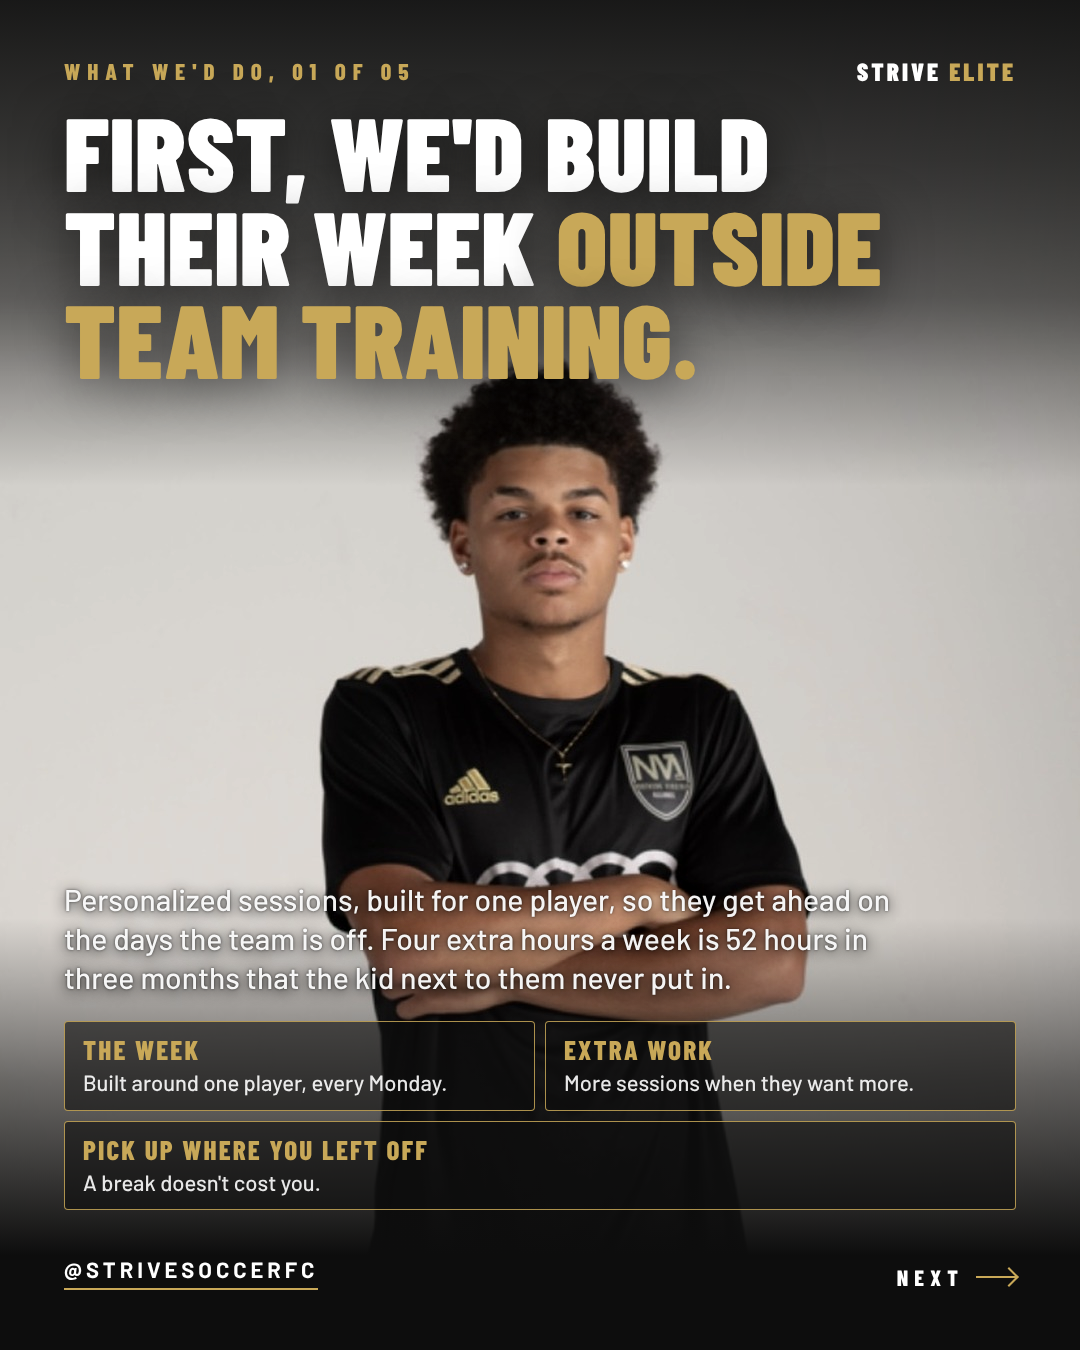
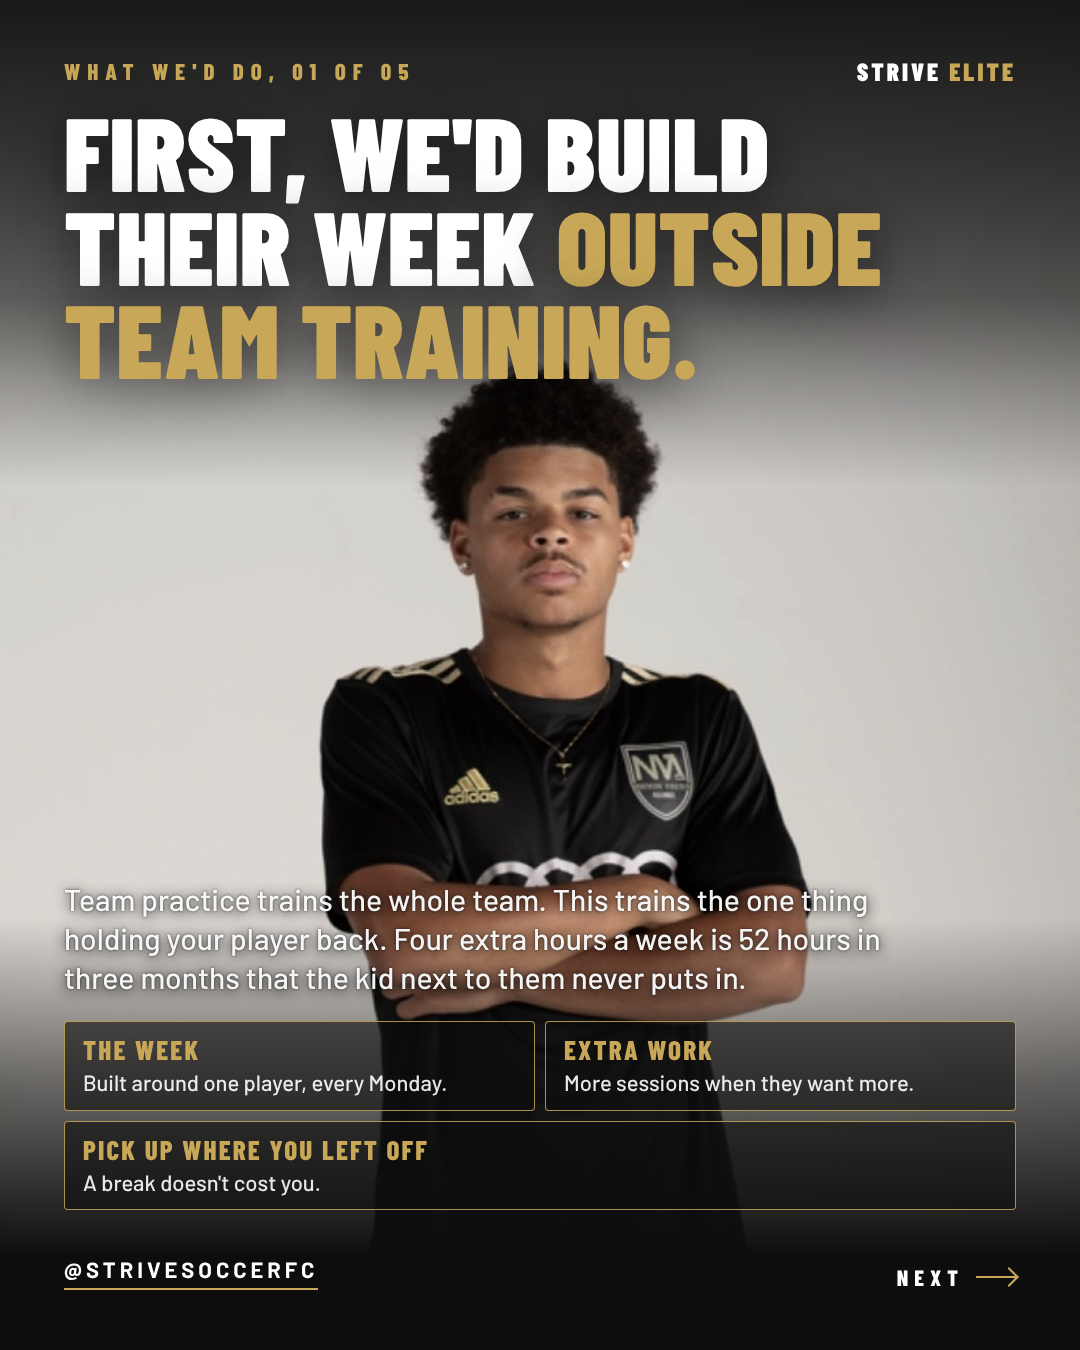
Offer carousel: step 1 sentence says what the player gets
Claude-Session: https://claude.ai/code/session_011JsCTTjCbUkHbTuWTKQSXJ

Changed region(s): [[0.0611, 0.6533, 0.825, 0.7467]]

diff --git a/marketing/announcement/offer-post/step1.html b/marketing/announcement/offer-post/step1.html
@@ -34,5 +34,5 @@ h1 span{color:#c8a858}
 <div class="ph"></div><div class="sh"></div>
 <div class="top"><div class="step">What we'd do, 01 of 05</div><div class="wm">Strive <span>Elite</span></div></div>
 <h1>First, we'd build<br>their week <span>outside<br>team training.</span></h1>
-<div class="low"><p class="p">Personalized sessions, built for one player, so they get ahead on the days the team is off. Four extra hours a week is 52 hours in three months that the kid next to them never put in.</p><div class="chips n3"><span><b>The Week</b><i>Built around one player, every Monday.</i></span><span><b>Extra Work</b><i>More sessions when they want more.</i></span><span><b>Pick Up Where You Left Off</b><i>A break doesn't cost you.</i></span></div></div>
+<div class="low"><p class="p">Team practice trains the whole team. This trains the one thing holding your player back. Four extra hours a week is 52 hours in three months that the kid next to them never puts in.</p><div class="chips n3"><span><b>The Week</b><i>Built around one player, every Monday.</i></span><span><b>Extra Work</b><i>More sessions when they want more.</i></span><span><b>Pick Up Where You Left Off</b><i>A break doesn't cost you.</i></span></div></div>
 <div class="handle">@strivesoccerfc</div><div class="swipe">Next <i></i></div>

diff --git a/CLAUDE.md b/CLAUDE.md
@@ -3543,6 +3543,16 @@ commit.
       68% instead of 56% and is lighter, and the sentence carries a
       stronger text shadow so it still reads over his shirt. The
       headline fade at the top is unchanged. Preview strip rebuilt. Sent.
+      THEN (Coach Yinka: "The copy needs to be improved? Personalized
+      sessions built for one player means nothing to the reader"):
+      step 1's sentence rewritten around what the reader can picture,
+      not the feature name: "Team practice trains the whole team. This
+      trains the one thing holding your player back. Four extra hours
+      a week is 52 hours in three months that the kid next to them
+      never puts in." (the days-the-team-is-off clause cut, the
+      headline already says outside team training; 4 h x 13 weeks is
+      still his figure). Three lines, clear of his chest. The other
+      four steps' sentences were not touched. Sent.
 
 ## Growth target (stamped Sept 19, Coach Yinka's own call)
 
